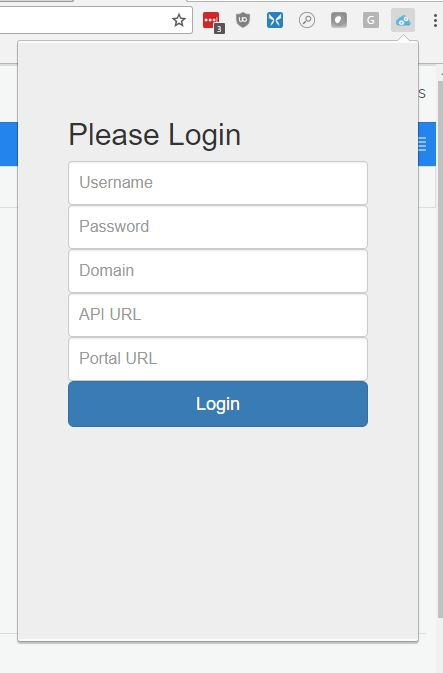
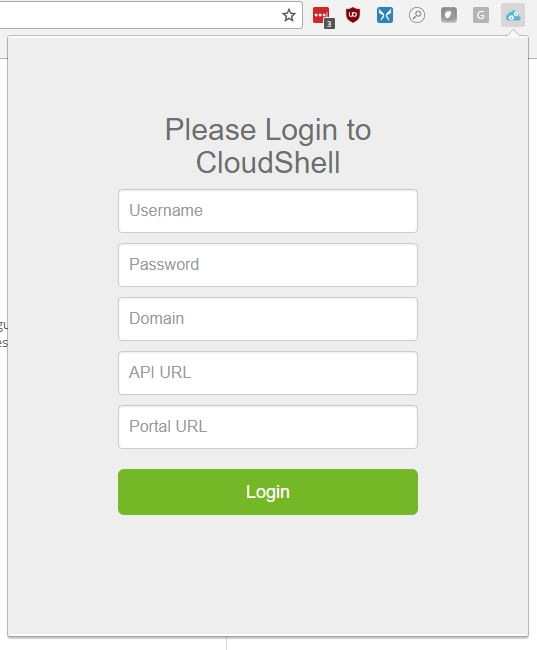
Updated screenshots and fixed url decoding issue

diff --git a/Extension/sbox.js b/Extension/sbox.js
@@ -9,7 +9,7 @@ function getUrlVal(key){
       retVal = kvp.split("=")[1];
     }
   });
-  return retVal;
+  return decodeURIComponent(retVal);
 } //end getUrlVal
 
 function sboxDetails(response){
@@ -64,6 +64,6 @@ chrome.storage.local.get(null, function (result) {
     chrome.tabs.create({ url: "https://www.quali.com" });
   });
 
-  var token = decodeURIComponent(getUrlVal('token'));
+  var token = getUrlVal('token');
   getSbox(token, result["csuri"]);
 });

diff --git a/README.md b/README.md
@@ -1,5 +1,7 @@
 # CloudShell-Browser-Extension
 
+## Background
+
 This is a simple browser extension (Chrome and Edge) that let's you see your running sandboxes for a [CloudShell](https://www.quali.com/) install.
 
 Permissions are set to need permissions "for every site" because the extension doesn't know the address of your CloudShell server ahead of time. Once I know how to solve this, I will restrict it further.
@@ -15,6 +17,15 @@ The info the extension needs is as follows:
 * API URI - the CloudShell REST API endpoint (get this from your administrator) - no trailing slash but starts with http:// or https://
 * Portal URI - the address of your CloudShell portal you log into - no trailing slash but starts with http:// or https://
 
+## Screenshots
+Login prompt:
+
 ![](Screenshots/01.jpg)
 
+View of running sandboxes:
+
 ![](Screenshots/02.jpg)
+
+Digging in to see contents of a running sandbox:
+
+![](Screenshots/03.jpg)
